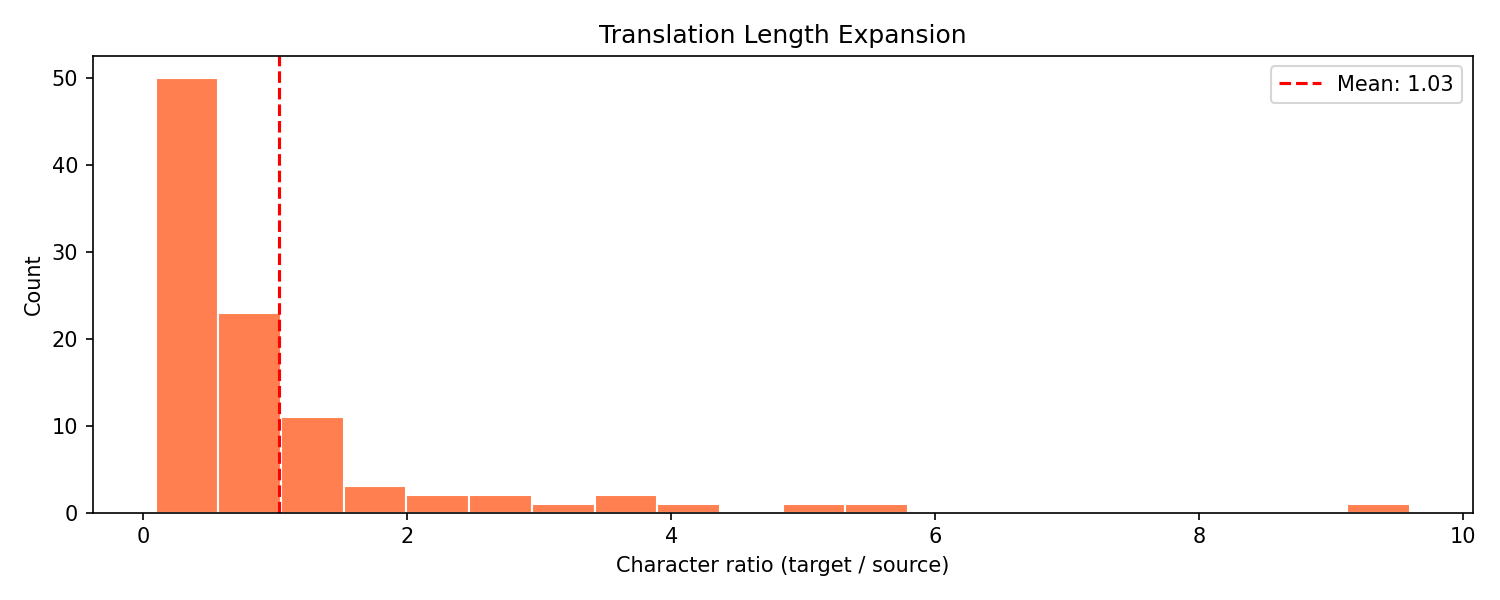
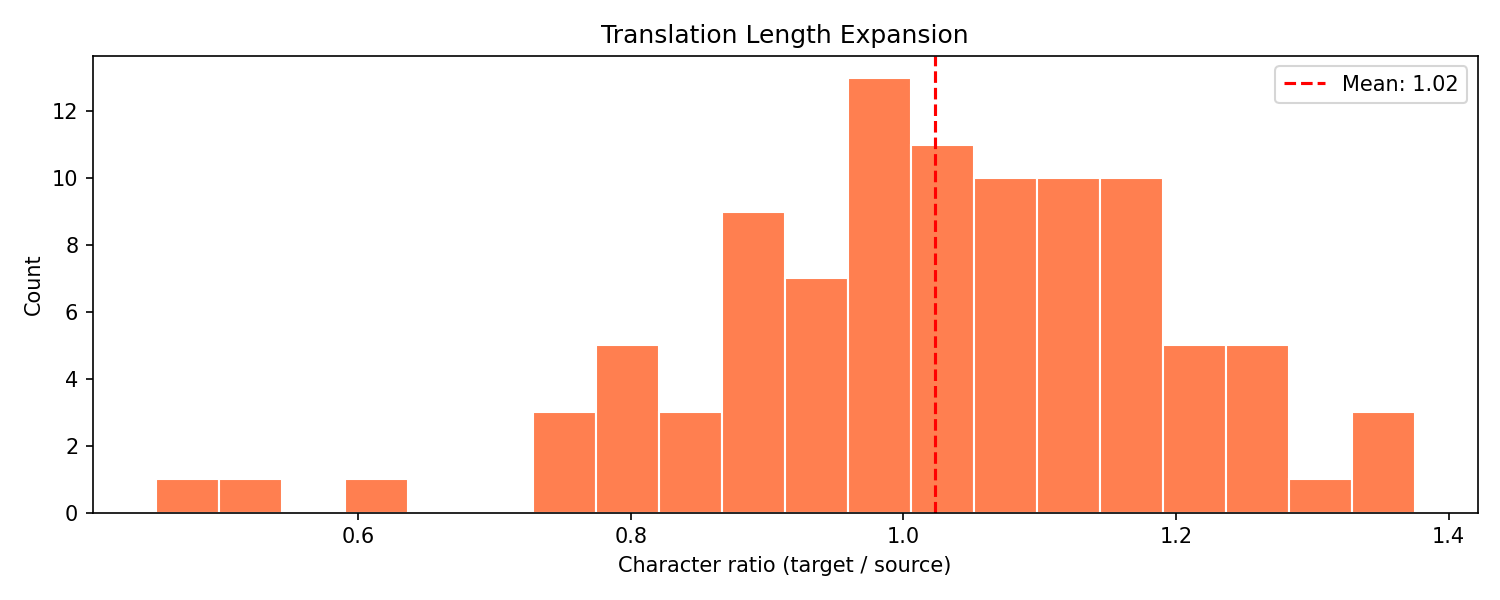
cannot overcome docker related wsl errors, switching OS to fedora

diff --git a/api/src/routers/diarize.py b/api/src/routers/diarize.py
@@ -1,6 +1,5 @@
 """POST /api/diarize/{video_id} — speaker diarization (issue fw-lua)."""
 
-import asyncio
 import json
 import subprocess
 
@@ -10,12 +9,38 @@ from api.src.core.config import settings
 from api.src.core.dependencies import resolve_title
 from api.src.schemas.diarize import DiarizeResponse
 from api.src.services.alignment_service import AlignmentService
+from foreign_whispers.diarization import assign_speakers
 
 router = APIRouter(prefix="/api")
 
 _alignment_service = AlignmentService(settings=settings)
 
-from foreign_whispers.diarization import assign_speakers
+
+def _merge_speakers_into_translations(title: str, diar_segments: list[dict]) -> None:
+    """Stamp each segment in every translation JSON with its speaker label.
+
+    Iterates over all translation backend subdirs (e.g. argos/) and rewrites
+    the matching ``<title>.json`` file so that every segment gains a
+    ``"speaker"`` field.  Idempotent — re-running after new diarization data
+    simply overwrites the previous labels.
+    """
+    translations_root = settings.data_dir / "translations"
+    if not translations_root.exists():
+        return
+
+    for backend_dir in translations_root.iterdir():
+        if not backend_dir.is_dir():
+            continue
+        trans_path = backend_dir / f"{title}.json"
+        if not trans_path.exists():
+            continue
+        try:
+            data = json.loads(trans_path.read_text())
+            segments = data.get("segments", [])
+            data["segments"] = assign_speakers(segments, diar_segments)
+            trans_path.write_text(json.dumps(data))
+        except Exception:  # noqa: BLE001 — never crash the diarize endpoint
+            pass
 
 
 @router.post("/diarize/{video_id}", response_model=DiarizeResponse)
@@ -25,10 +50,9 @@ async def diarize_endpoint(video_id: str):
     Steps:
     1. Extract audio from video via ffmpeg
     2. Run pyannote diarization
-    3. Cache and return speaker segments
+    3. Merge speaker labels into translation JSON(s)
+    4. Cache and return speaker segments
     """
-    import json
-    import subprocess
 
     title = resolve_title(video_id)
     if title is None:
@@ -43,15 +67,15 @@ async def diarize_endpoint(video_id: str):
     diar_path = diar_dir / f"{title}.json"
 
     # Return cached result
-    if diar_path.exists():
-        data = json.loads(diar_path.read_text())
+    # if diar_path.exists():
+    #     data = json.loads(diar_path.read_text())
 
-        return DiarizeResponse(
-            video_id=video_id,
-            speakers=data.get("speakers", []),
-            segments=data.get("segments", []),
-            skipped=True,
-        )
+    #     return DiarizeResponse(
+    #         video_id=video_id,
+    #         speakers=data.get("speakers", []),
+    #         segments=data.get("segments", []),
+    #         skipped=True,
+    #     )
 
     # -------------------------
     # Step 1: Extract audio
@@ -101,9 +125,7 @@ async def diarize_endpoint(video_id: str):
             status_code=500,
             detail=f"Diarization failed: {str(e)}"
         )
-    
-    print("DIAR SEGMENTS:", diar_segments[:5])
-    
+
     # -------------------------
     # Step 3: Unique speakers
     # -------------------------
@@ -116,7 +138,12 @@ async def diarize_endpoint(video_id: str):
     )
 
     # -------------------------
-    # Step 4: Cache result
+    # Step 4: Merge speaker labels into translation JSONs
+    # -------------------------
+    _merge_speakers_into_translations(title, diar_segments)
+
+    # -------------------------
+    # Step 5: Cache result
     # -------------------------
     result = {
         "speakers": speakers,
@@ -127,19 +154,12 @@ async def diarize_endpoint(video_id: str):
         json.dumps(result)
     )
 
-    transcript_path = settings.transcriptions_dir / f"{title}.json"
-    if transcript_path.exists():
-        transcript = json.loads(transcript_path.read_text())
-        labeled_segments = assign_speakers(transcript.get("segments", []), diar_segments)
-        transcript["segments"] = labeled_segments
-        transcript_path.write_text(json.dumps(transcript))
-
     # Optional cleanup
     if audio_path.exists():
         audio_path.unlink()
 
     # -------------------------
-    # Step 5: Return response
+    # Step 6: Return response
     # -------------------------
     return DiarizeResponse(
         video_id=video_id,

diff --git a/api/src/routers/tts.py b/api/src/routers/tts.py
@@ -53,21 +53,38 @@ async def tts_endpoint(
     wav_path = audio_dir / f"{title}.wav"
 
     # --- MODIFIED: Added skipped flag for caching criteria ---
-    if wav_path.exists():
-        return {
-            "video_id": video_id,
-            "audio_path": str(wav_path),
-            "config": config,
-            "skipped": True  
-        }
+    # if wav_path.exists():
+    #     return {
+    #         "video_id": video_id,
+    #         "audio_path": str(wav_path),
+    #         "config": config,
+    #         "skipped": True  
+    #     }
 
     source_path = str(trans_dir / f"{title}.json")
 
+    # --- TASK 4.1: BUILD SPEAKER-TO-VOICE MAPPING ---
+    # Load translated transcript to get speaker labels
+    with open(source_path, "r", encoding="utf-8") as f:
+        translated = json.load(f)
+    segments = translated.get("segments", [])
+
+    # Build speaker -> voice mapping dictionary
+    unique_speakers = sorted(set(seg.get("speaker", "SPEAKER_00") for seg in segments))
+    voice_map = {
+        spk: resolve_speaker_wav(settings.speakers_dir, "es", spk)
+        for spk in unique_speakers
+    }
+
+    # If the user didn't provide a specific override query param, use our smart dictionary!
+    final_voice_routing = speaker_wav if speaker_wav else voice_map
+    # ------------------------------------------------
+
+    # Pass the mapping down the pipe
     await _run_in_threadpool(
-        None, svc.text_file_to_speech, source_path, str(audio_dir), alignment=alignment, speaker_wav=speaker_wav
+        None, svc.text_file_to_speech, source_path, str(audio_dir), alignment=alignment, speaker_wav=final_voice_routing
     )
 
-    # --- MODIFIED: Added skipped flag for initial run ---
     return {
         "video_id": video_id,
         "audio_path": str(wav_path),

diff --git a/api/src/services/tts_engine.py b/api/src/services/tts_engine.py
@@ -196,7 +196,7 @@ def files_from_dir(dir_path) -> list:
     return es_files
 
 
-def _synthesize_raw(tts_engine, text: str, wav_path: str) -> bytes | None:
+def _synthesize_raw(tts_engine, text: str, wav_path: str, speaker_wav: str | None = None) -> bytes | None:
     """GPU-bound: call TTS engine and return raw WAV bytes, or None on failure."""
     if not text or not text.strip():
         return None
@@ -456,6 +456,13 @@ def text_file_to_speech(source_path, output_path, tts_engine=None, *, alignment=
                     en_text = en_segs[i].get("text", "")
                 seg_text = _shorten_segment_text(en_text, seg["text"], target_sec)
 
+        current_voice = None
+        if isinstance(speaker_wav, dict):
+            spk_label = seg.get("speaker", "SPEAKER_00")
+            current_voice = speaker_wav.get(spk_label)
+        else:
+            current_voice = speaker_wav
+
         seg_metas.append({
             "index": i,
             "text": seg_text,
@@ -464,6 +471,7 @@ def text_file_to_speech(source_path, output_path, tts_engine=None, *, alignment=
             "target_sec": target_sec,
             "stretch_factor": stretch_factor,
             "aligned_seg": aligned_seg,
+            "speaker_wav": current_voice,  
         })
 
     # ── Phase 1: GPU synthesis (concurrent) ───────────────────────────
@@ -475,13 +483,16 @@ def text_file_to_speech(source_path, output_path, tts_engine=None, *, alignment=
     raw_wav_map: dict[int, bytes | None] = {}
 
     with tempfile.TemporaryDirectory() as synth_dir:
-        def _do_synth(idx: int, text: str) -> tuple[int, bytes | None]:
+        # 1. Adding speaker_wav to the signature
+        def _do_synth(idx: int, text: str, speaker_wav: str | None = None) -> tuple[int, bytes | None]:
             wav_path = str(pathlib.Path(synth_dir) / f"seg_{idx}.wav")
-            return idx, _synthesize_raw(engine, text, wav_path)
+            # 2. Passing it down to _synthesize_raw
+            return idx, _synthesize_raw(engine, text, wav_path, speaker_wav=speaker_wav)
 
         with ThreadPoolExecutor(max_workers=_TTS_WORKERS) as pool:
             futures = {
-                pool.submit(_do_synth, m["index"], m["text"]): m["index"]
+                # 3. Grabbing the speaker_wav from the 'm' metadata dict!
+                pool.submit(_do_synth, m["index"], m["text"], m.get("speaker_wav")): m["index"]
                 for m in seg_metas
             }
             for fut in as_completed(futures):

diff --git a/foreign_whispers/diarization.py b/foreign_whispers/diarization.py
@@ -24,14 +24,27 @@ def diarize_audio(audio_path: str, hf_token: str | None = None) -> list[dict]:
         logger.warning("No HF token provided — diarization skipped.")
         return []
 
+    # torchaudio 2.5+ removed the top-level AudioMetaData attribute that
+    # pyannote.audio 3.x uses as a return-type annotation in io.py.  Patch
+    # it back as a NamedTuple stub *before* the import so the annotation
+    # evaluation doesn't raise AttributeError.  Only the attribute lookup
+    # matters — this stub is never called at runtime.
+    import torchaudio as _ta
+    if not hasattr(_ta, "AudioMetaData"):
+        import collections
+        _ta.AudioMetaData = collections.namedtuple(
+            "AudioMetaData",
+            ["sample_rate", "num_frames", "num_channels", "bits_per_sample", "encoding"],
+        )
+
     try:
         from pyannote.audio import Pipeline
-    except (ImportError, TypeError):
-        logger.warning("pyannote.audio not installed — returning empty diarization.")
+    except (ImportError, TypeError, AttributeError, Exception) as exc:  # noqa: BLE001
+        logger.warning("pyannote.audio not importable — returning empty diarization. (%s)", exc)
         return []
 
     try:
-        pipeline    = Pipeline.from_pretrained(
+        pipeline = Pipeline.from_pretrained(
             "pyannote/speaker-diarization-3.1",
             token=hf_token,
         )

diff --git a/api/src/services/tts_service.py b/api/src/services/tts_service.py
@@ -20,15 +20,11 @@ class TTSService:
     def text_file_to_speech(self, source_path: str, output_path: str,
                             *, alignment: bool | None = None,
                             speaker_wav: str | None = None) -> None:
-        
-        # Import the core library function
-        from foreign_whispers.tts import text_file_to_speech as tts_text_file_to_speech
-        
-        # Pass the arguments straight through
+        # Use the engine function imported at module level
         tts_text_file_to_speech(
-            source_path, 
-            output_path, 
-            self.tts_engine, 
-            alignment=alignment, 
-            speaker_wav=speaker_wav # <-- Passing it down the pipe
+            source_path,
+            output_path,
+            self.tts_engine,
+            alignment=alignment,
+            speaker_wav=speaker_wav,
         )